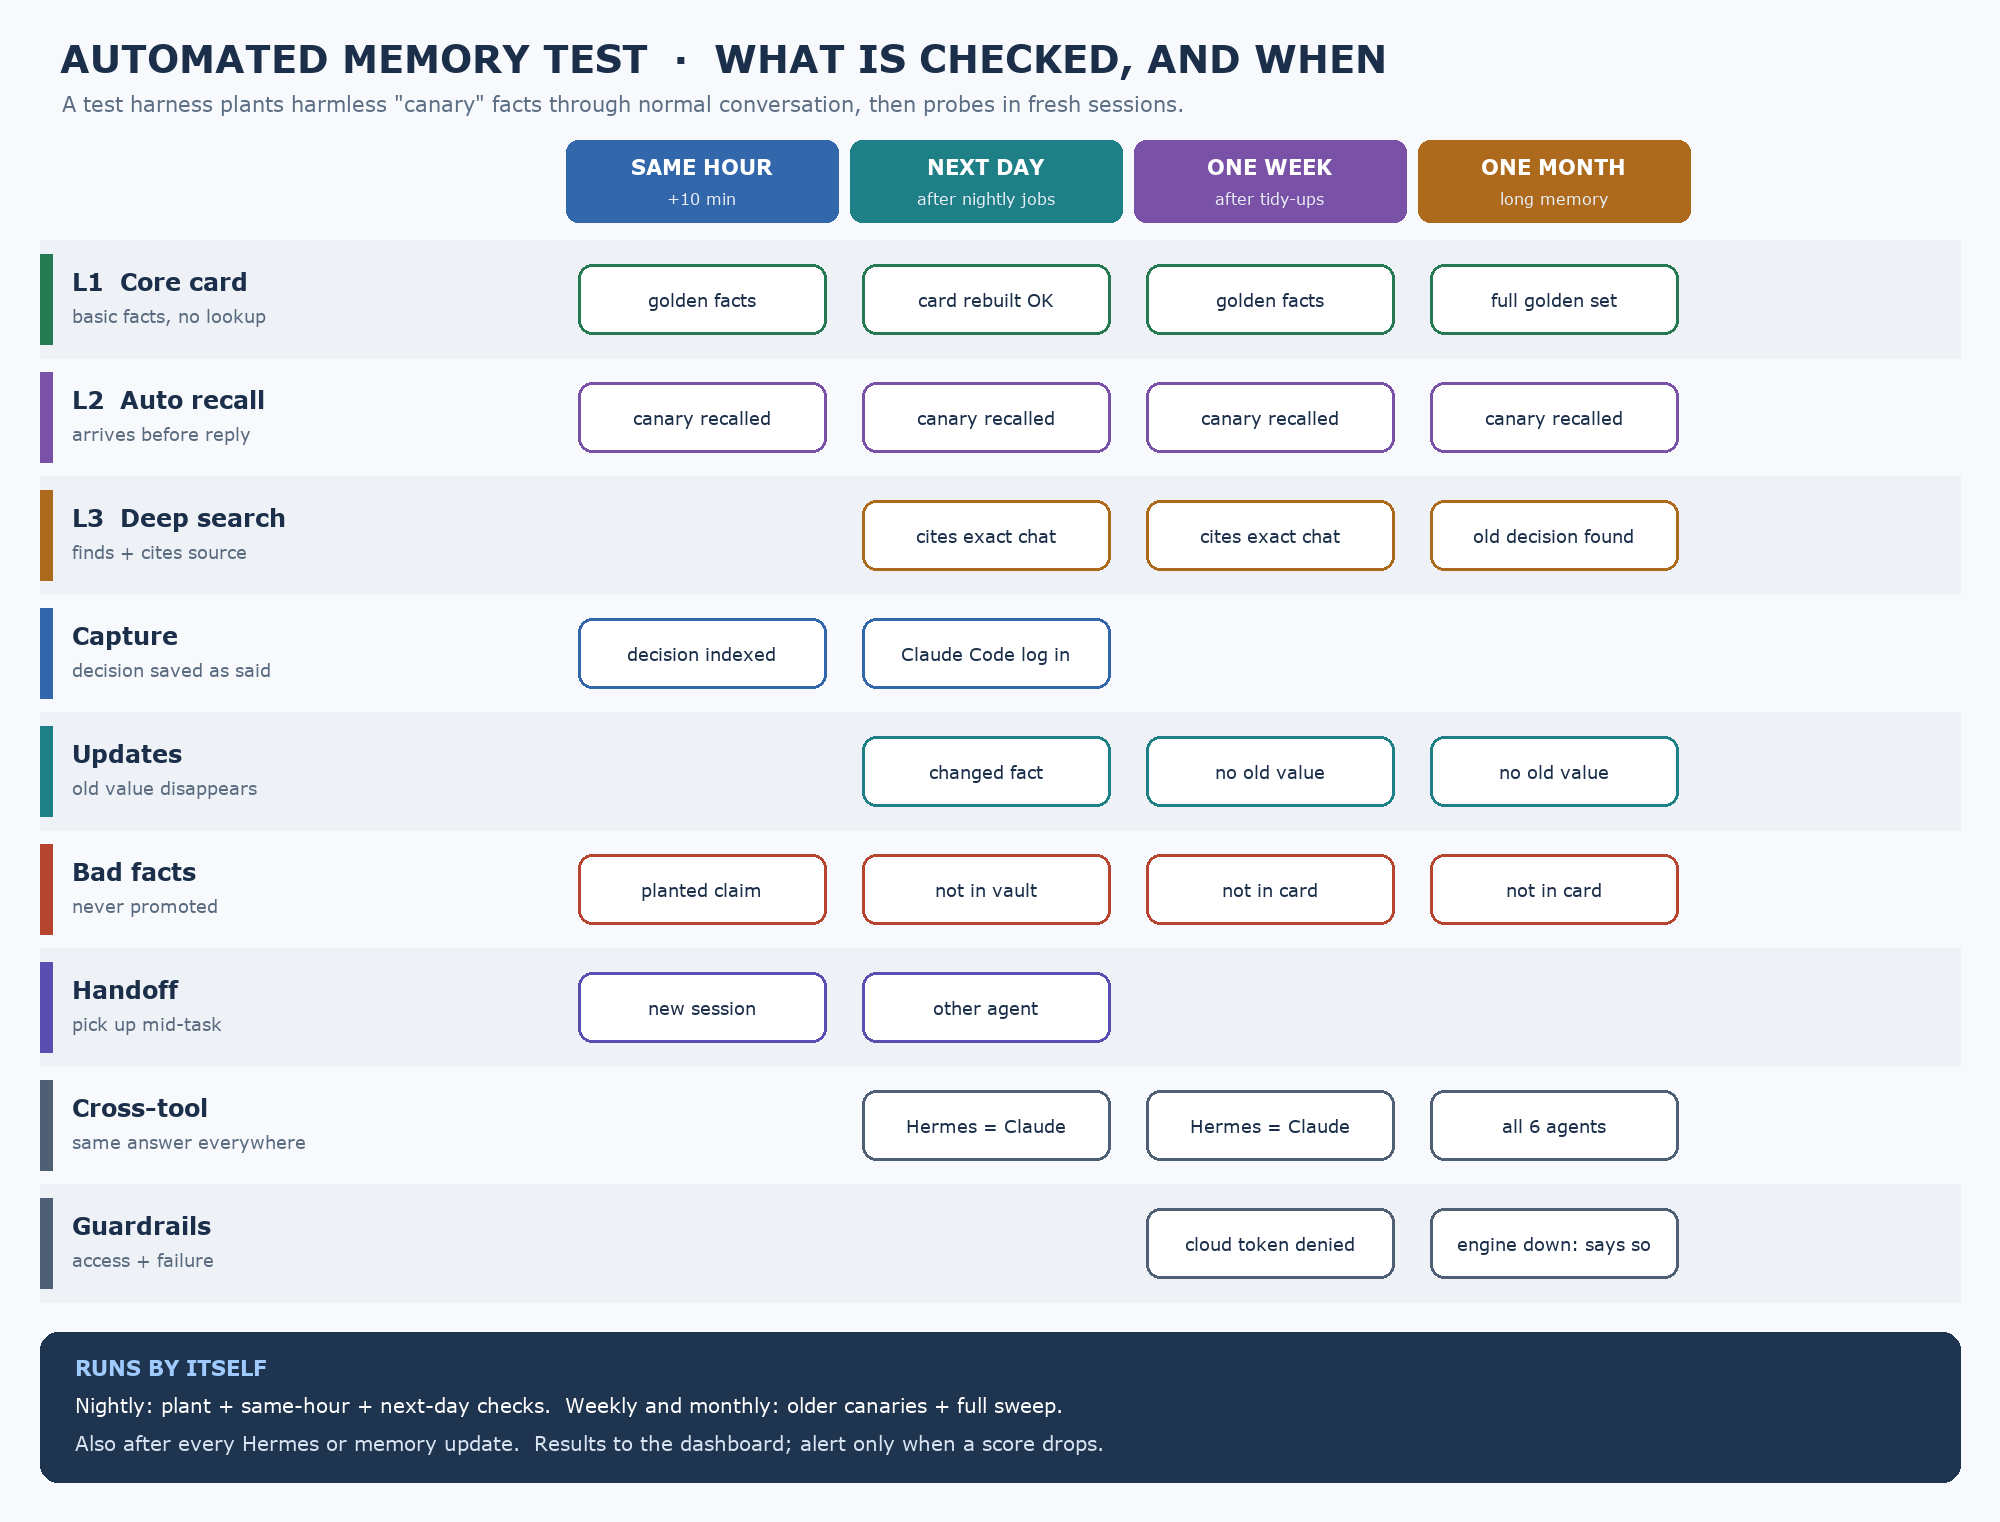
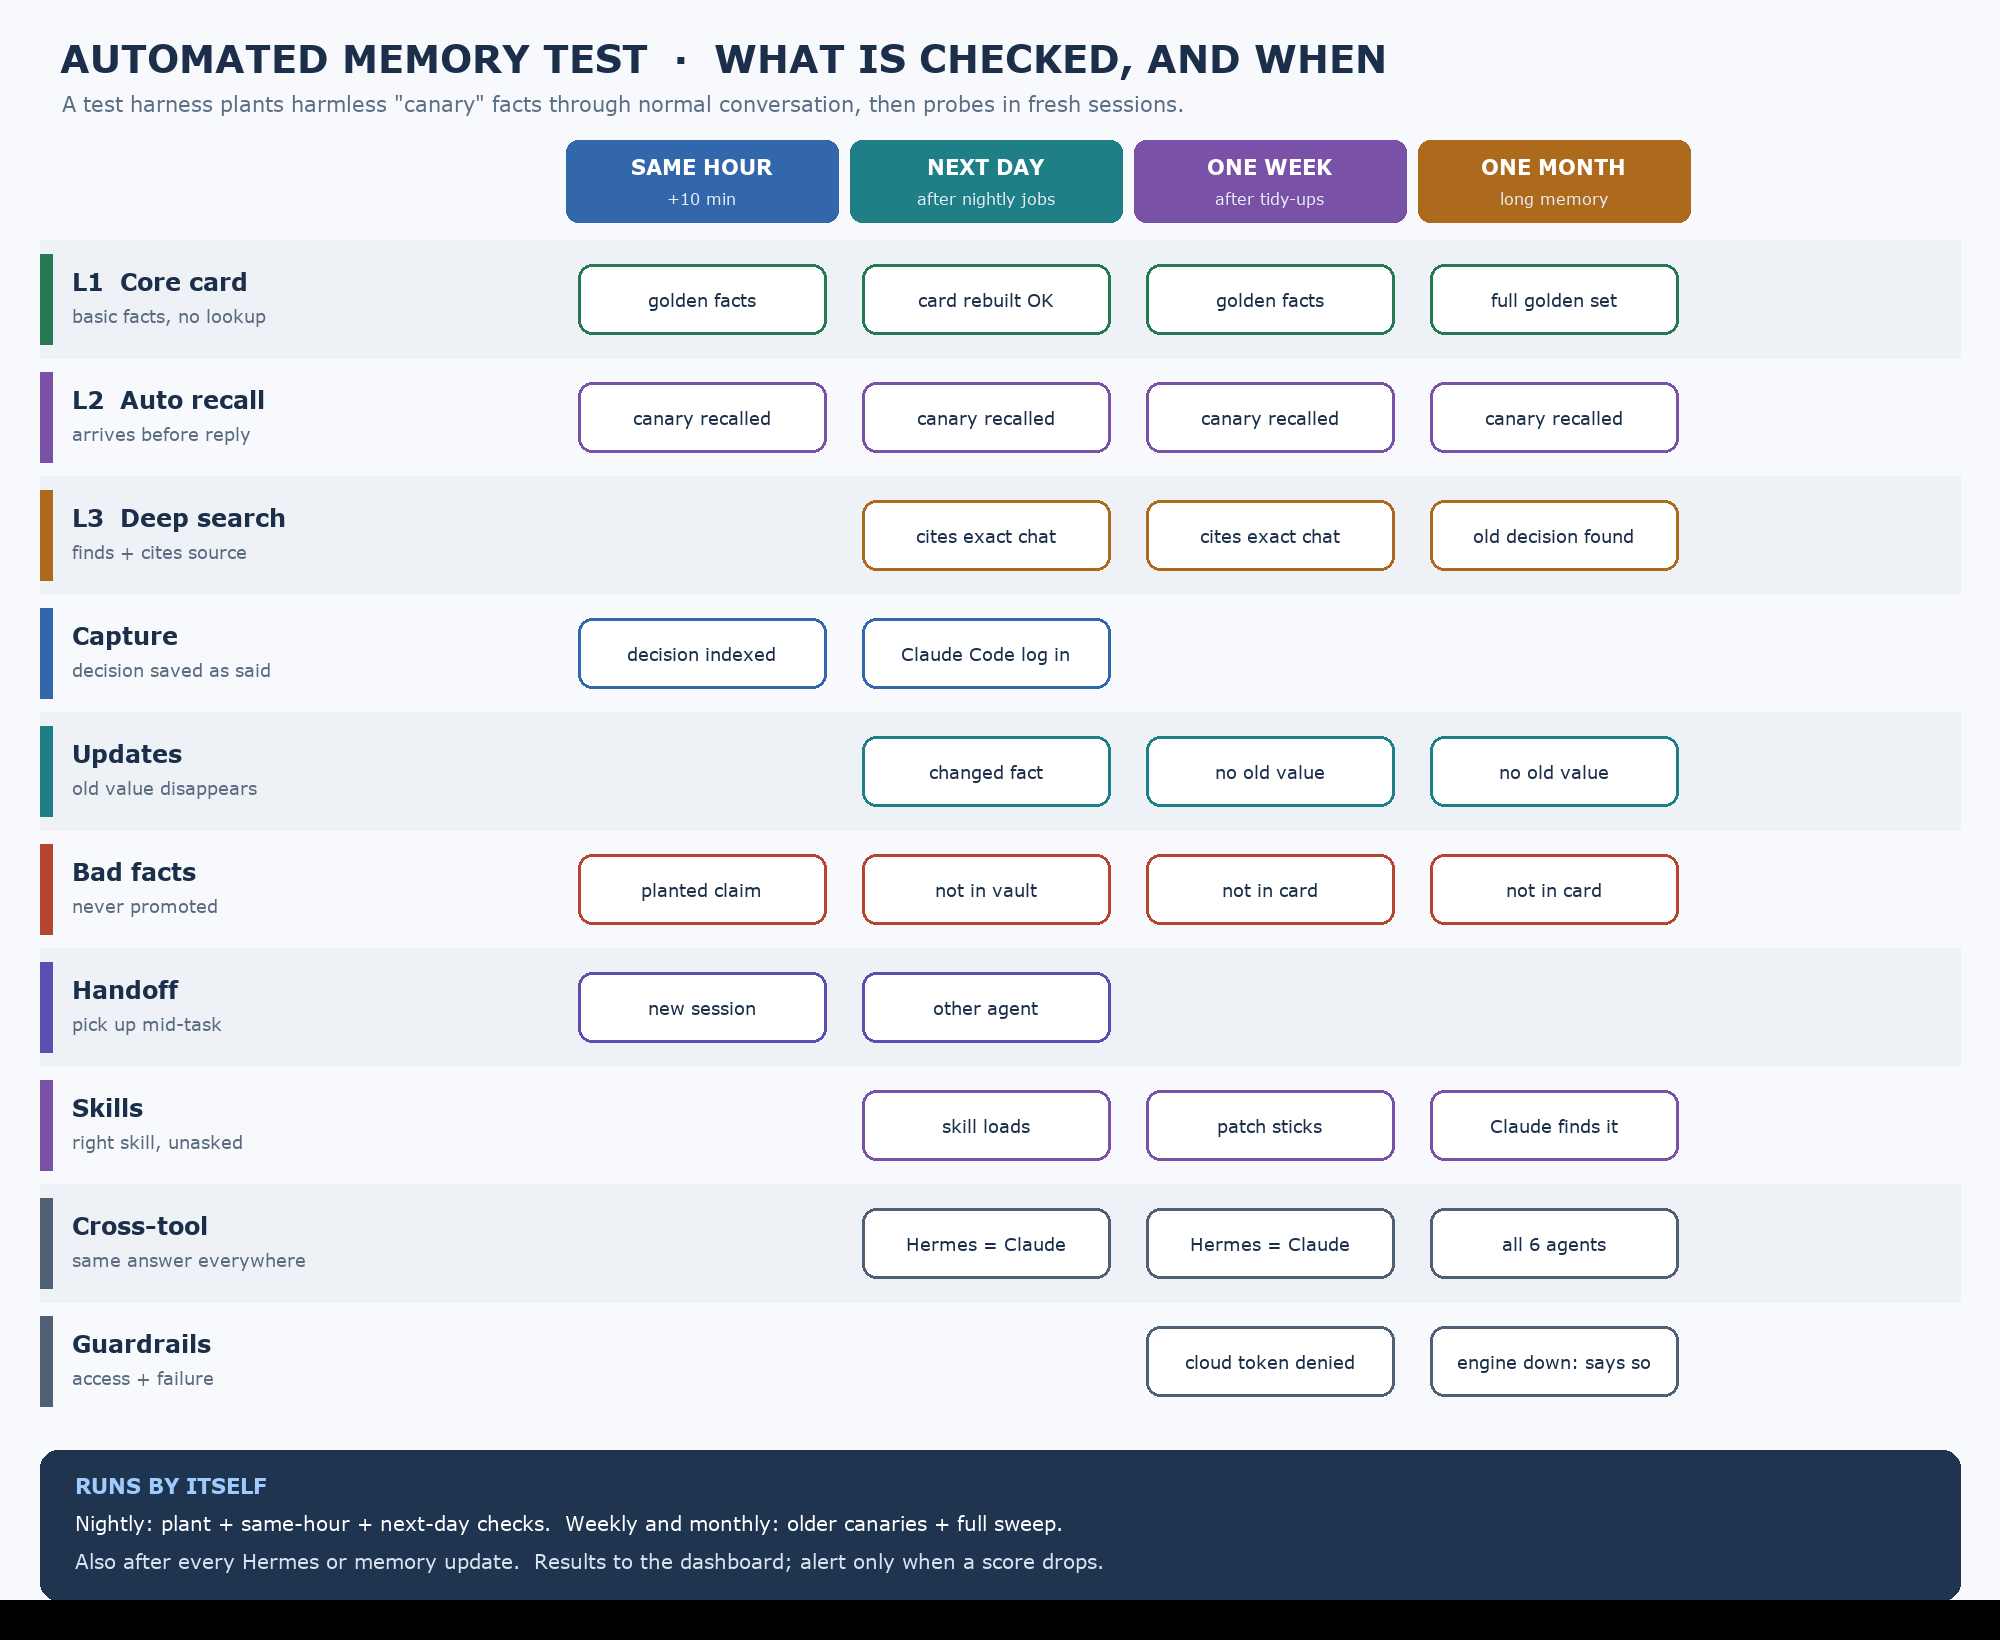
Re-anchor design on the four memory types: master scorecard, per-type mapping, handoff owner, skill tests

diff --git a/diagrams/src/memory-four-types-scorecard.py b/diagrams/src/memory-four-types-scorecard.py
@@ -1,0 +1,65 @@
+from PIL import Image, ImageDraw, ImageFont
+from pathlib import Path
+import sys
+out = Path(sys.argv[1]) if len(sys.argv) > 1 else Path('memory-four-types-scorecard.png')
+x0, cw = 470, 136
+W = x0 + 13 * cw + 50
+H = 1600
+im = Image.new('RGB', (W, H), '#f7f9fc'); d = ImageDraw.Draw(im)
+reg = '/System/Library/Fonts/Supplemental/Verdana.ttf'; bold = '/System/Library/Fonts/Supplemental/Verdana Bold.ttf'
+def F(n, b=False): return ImageFont.truetype(bold if b else reg, n)
+def T(x, y, s, n=24, c='#22344c', b=False, anchor=None): d.text((x, y), s, font=F(n, b), fill=c, anchor=anchor)
+blue = '#3267ab'; green = '#267a53'; orange = '#ad6a1d'; purple = '#7951a6'; grey = '#4f6075'; dark = '#1b2f4a'; red = '#9a3b1d'
+T(40, 30, 'FOUR TYPES OF MEMORY  ·  WHO COVERS WHAT', 40, dark, True)
+T(42, 88, 'Columns = the four memory types (CoALA) split into parts, plus the requirements added later. Rows = tools, then the two designs we are vetting.', 19, '#5d6f85')
+T(42, 116, "Bob's rating from vendor docs, one independent Hermes test and user reports. Option rows are targets, not measurements.", 19, '#5d6f85')
+groups = [('WORKING', blue, 0, 2), ('SEMANTIC', green, 2, 2), ('EPISODIC', orange, 4, 2), ('PROCEDURAL', purple, 6, 1), ('REQUIREMENTS', grey, 7, 6)]
+for name, c, i, n in groups:
+    d.rounded_rectangle((x0 + i*cw + 4, 160, x0 + (i+n)*cw - 4, 204), radius=10, fill=c)
+    T(x0 + i*cw + (n*cw)//2, 182, name, 18 if n > 1 else 13, '#ffffff', True, 'mm')
+cols = [('Live', 'context'), ('Handoff', 'note'), ('Confirmed', 'facts'), ('Inferred', 'facts'), ('Original', 'chats'), ('Distilled', 'decisions'),
+        ('Skills', ''), ('Shows up', 'unasked'), ('Shared by', 'all agents'), ('Other', 'tools'), ('Blocks', 'bad facts'), ('Low', 'upkeep'), ('Outside', 'evidence')]
+for i, (a, b) in enumerate(cols):
+    cx = x0 + i*cw + cw//2; T(cx, 228, a, 17, dark, True, 'mm'); T(cx, 252, b, 17, dark, True, 'mm')
+gc = [blue, blue, green, green, orange, orange, purple] + [grey]*6
+N = None
+rows = [
+ ('Hermes (today)', 'Strong live context; tiny per-agent facts', [3,1,1,1,2,0,3, 1,0,0,2,3,N], '#fbe9e5'),
+ ('Hindsight', 'Best distiller; auto-save can pollute', [1,0,1,3,1,3,0, 3,2,2,1,2,2], None),
+ ('Honcho', 'Best conversation record; heaviest', [2,1,1,3,3,2,0, 3,2,2,1,1,3], '#eef2f7'),
+ ('Mem0', 'Preferences; old facts linger', [1,0,1,2,0,1,0, 3,1,2,1,2,2], None),
+ ('Supermemory', 'Review queue for guesses; cloud MCP', [1,0,2,2,2,1,0, 3,2,3,2,2,1], '#eef2f7'),
+ ('Mnemosyne', 'Fast local working memory; least evidence', [2,1,1,1,1,2,0, 2,1,2,2,2,1], None),
+ ('G-Brain', 'Sourced, correctable, shared; docs only', [1,1,3,2,2,2,2, 2,3,3,2,1,1], '#e8f1fb'),
+ ('Obsidian', 'Human-edited notebook; recalls nothing', [0,1,3,0,1,0,1, 0,1,1,3,2,N], None),
+]
+opts = [
+ ('Option A', 'Obsidian + G-Brain + Hermes', [3,2,3,2,3,2,3, 3,3,3,3,1,1]),
+ ('Option B', 'Option A + Mnemosyne per agent', [3,2,3,2,3,3,3, 3,3,3,2,1,1]),
+]
+def ball(cx, cy, v, c, r=25):
+    d.ellipse((cx-r, cy-r, cx+r, cy+r), fill='#ffffff', outline='#9aa8b8', width=3)
+    if v >= 3: d.ellipse((cx-r, cy-r, cx+r, cy+r), fill=c, outline=c, width=3)
+    elif v > 0: d.pieslice((cx-r, cy-r, cx+r, cy+r), -90, -90 + 120*v, fill=c, outline=c)
+rh = 100
+def row(y, name, note, vals, fill=None, outline=None):
+    if fill: d.rounded_rectangle((20, y, W-20, y+rh-8), radius=16, fill=fill, outline=outline, width=4 if outline else 1)
+    T(40, y+20, name, 24, dark, True); T(40, y+58, note, 15, '#5a6b80')
+    for i, v in enumerate(vals):
+        cx = x0 + i*cw + cw//2; cy = y + (rh-8)//2
+        if v is None: T(cx, cy, 'n/a', 15, '#7b8899', False, 'mm')
+        else: ball(cx, cy, v, gc[i])
+y = 280
+for name, note, vals, fill in rows:
+    row(y, name, note, vals, fill, '#3267ab' if name == 'G-Brain' else None); y += rh
+y += 14
+T(40, y, 'DESIGNS WE ARE VETTING  (targets, not measured yet)', 18, '#9a6a12', True); y += 34
+for name, note, vals in opts:
+    row(y, name, note, vals, '#fff8e6', '#d39a2a'); y += rh + 6
+y += 16
+for i, (v, lab) in enumerate([(0, 'none'), (1, 'limited'), (2, 'good'), (3, 'strong')]):
+    ball(60 + i*170, y+20, v, '#5c6f86', 17); T(88 + i*170, y+8, lab, 18, '#40536a')
+T(780, y+8, 'No single tool fills its row. Hermes today fails "shared" and "shows up unasked", the gap users feel.', 18, red, True)
+y += 50
+T(40, y, 'Why each score: docs/00-four-types-scorecard.md', 17, '#40536a')
+im = im.crop((0, 0, W, y + 50)); im.save(out); print(out, im.size)

diff --git a/diagrams/src/memory-test-timeline.py b/diagrams/src/memory-test-timeline.py
@@ -25,6 +25,7 @@ rows = [
  ('Updates', 'old value disappears', '#1f7f86', ['', 'changed fact', 'no old value', 'no old value']),
  ('Bad facts', 'never promoted', '#b5452f', ['planted claim', 'not in vault', 'not in card', 'not in card']),
  ('Handoff', 'pick up mid-task', '#5a4fb0', ['new session', 'other agent', '', '']),
+ ('Skills', 'right skill, unasked', '#7951a6', ['', 'skill loads', 'patch sticks', 'Claude finds it']),
  ('Cross-tool', 'same answer everywhere', '#4f6075', ['', 'Hermes = Claude', 'Hermes = Claude', 'all 6 agents']),
  ('Guardrails', 'access + failure', '#4f6075', ['', '', 'cloud token denied', 'engine down: says so']),
 ]

diff --git a/docs/00-four-types-scorecard.md b/docs/00-four-types-scorecard.md
@@ -1,0 +1,63 @@
+# 00 · The design, organised by the four types of memory
+
+This is the master view. Every other document supports it.
+
+![Four types scorecard](../diagrams/memory-four-types-scorecard.png)
+
+## The framework
+
+We use the four memory types from the CoALA paper (Cognitive Architectures for Language Agents) and the IBM explainer that introduced it to us. Each type is split into the parts that behave differently:
+
+| Type | Part | What it is |
+|---|---|---|
+| **Working** | Live context | The current conversation |
+| | Handoff note | Where a task was left: status, blockers, next step |
+| **Semantic** | Confirmed facts | Facts a person has confirmed (address, family, standing rules) |
+| | Inferred facts | Facts a system worked out from conversations, unconfirmed |
+| **Episodic** | Original chats | The exact record of what was said |
+| | Distilled decisions | Decisions and events pulled out of chats, with dates |
+| **Procedural** | Skills | How to do things: tested, versioned runbooks |
+
+The later discussion added six **requirements** that cut across all four types: memory **shows up unasked**, is **shared by all agents**, works from **other tools**, **blocks bad facts**, needs **low upkeep**, and has **outside evidence** behind it.
+
+## How the design covers each type
+
+| Part | Lives in | Reaches the agent | Option A | Option B adds | Why (evidence) | Test |
+|---|---|---|---|---|---|---|
+| Live context | Hermes | Always (it is the conversation) | Hermes | Mnemosyne short-term store | Hermes is strong here today | Handoff + time tests |
+| Handoff note | **Toodledo task note** (owner: the agent on the task) | Loaded at session start when a task is active | Hermes + G-Brain index | Mnemosyne scratchpad | No product ships a handoff contract; it must be an owned artifact | Handoff test: new session / other agent continues correctly |
+| Confirmed facts | **Obsidian vault** | **Core card** at every session start; G-Brain recall | Obsidian → core card + G-Brain | same | Every engine tested repeated planted false claims, so facts can't depend on an engine | Golden facts every run, no tool call allowed |
+| Inferred facts | G-Brain (tagged *inferred*) | Recalled, ranked below confirmed | G-Brain | Mnemosyne (tagged *inferred*) | Supermemory/Mnemosyne show labelling + review works; promotion needs a human | Planted bad fact never reaches vault or card |
+| Original chats | Hermes chats, Claude Code / Codex logs | Deep search on demand, cited | G-Brain index | same | LongMemEval: keep the original; answer from the source | Deep search cites the exact chat |
+| Distilled decisions | G-Brain, linked to the original chat | **Recalled automatically before each reply** | G-Brain pre-reply | Mnemosyne pre-reply (faster, per agent) | LongMemEval: extract-as-you-go + dates improved recall ~9% and time questions ~7–11% | Canary probes at 10 min / day / week / month |
+| Skills | Hermes skills (git) | Skill index loaded every session; full skill on use | Hermes (+ G-Brain shares to other tools) | same | No memory product does procedural memory well | **Skill test** (below) |
+
+## What changed from the earlier scorecard
+
+- **Two new tools:** G-Brain and Obsidian.
+- **Rows for the two designs** replace the single "recommended combo" row.
+- **Requirements re-weighted:** "shows up unasked" and "shared by all agents" are now columns. The earlier version had no such columns, which is why Hermes looked best-in-class.
+- **Hermes "distilled decisions" lowered to none.** Hermes keeps chats but distils nothing from them.
+
+## Two gaps the four-type view exposed, now closed
+
+1. **Handoff note had no owner.** Now it's the Toodledo task note, owned by the agent working the task, loaded when a task is active, and indexed by G-Brain for other tools.
+2. **Skills were untested.** New automated skill test:
+   - For each of about 10 common requests (for example "check the boat battery"), the harness starts a fresh session and checks that the agent **loads the right skill without being told to**.
+   - After a skill is patched, a canary instruction added to it must appear in the agent's behaviour the next day.
+   - Through G-Brain, Claude Code must find the same skill.
+
+## Where the scores come from
+
+| Row | Main sources |
+|---|---|
+| Hermes | Hermes memory, sessions and provider docs; live audit of our six agents (per-agent notes over their limits, no shared store) |
+| Hindsight | Vendor docs (retain, observations, MCP); independent Hermes study; Reddit report of auto-save pollution |
+| Honcho | Vendor architecture docs; independent study (highest on complex histories); self-host user reports |
+| Mem0 | v3 OSS migration notes (add-only, old facts linger); independent study (best on conditional preferences) |
+| Supermemory | Memory-review docs (inferred-fact queue); self-hosting docs (MCP is cloud-only) |
+| Mnemosyne | Repo docs (working memory TTL, veracity labels, `sleep()` manual); own benchmark table (~20% Recall@10); user report |
+| G-Brain | Repo README only (sources, corrections, sharing, Claude Code/Codex/Grok/Muse guides, Tailscale). **Untested by us** |
+| Obsidian | Plain Markdown, human-edited; one Reddit setup using it as G-Brain's source of truth |
+
+All sources are linked in [../research/sources.md](../research/sources.md). Ratings are judgement calls, not measurements. The test method in [07-test-methodology.md](07-test-methodology.md) is how we replace them with numbers.

diff --git a/README.md b/README.md
@@ -20,6 +20,12 @@ We run six Hermes agents (chief of staff, engineering, travel, health, boat, fin
 4. **Low upkeep.** About 5 minutes a week from the human.
 5. **Portable.** Facts, skills and history stay in files we own, so the memory engine can be swapped.
 
+## The four types of memory (start here)
+
+![Four types scorecard](diagrams/memory-four-types-scorecard.png)
+
+The design is organised around the four standard memory types (working, semantic, episodic, procedural), each split into the parts that behave differently, and scored against our requirements. Full mapping, evidence and tests for each type: [docs/00-four-types-scorecard.md](docs/00-four-types-scorecard.md).
+
 ## Proposed design, in short
 
 ![Three levels of recall](diagrams/memory-recall-levels.png)
@@ -35,10 +41,9 @@ We are vetting **two options for level 2:**
 
 Both are judged by the same **automated test suite**. It plants made-up "canary" facts and probes every level 10 minutes, a day, a week and a month later. It also tracks how often agents ask about things they should already know.
 
-![Config layers](diagrams/memory-config-layers.png)
-
 ## Reading order
 
+0. [docs/00-four-types-scorecard.md](docs/00-four-types-scorecard.md): **master view**, the design by memory type, with evidence and tests
 1. [docs/01-design.md](docs/01-design.md): the recommended design, config layers and trust rules
 2. [docs/02-options-to-vet.md](docs/02-options-to-vet.md): Option A vs Option B, and how we'll decide
 3. [docs/03-research-findings.md](docs/03-research-findings.md): what the research says, including what we got wrong at first
@@ -49,13 +54,11 @@ Both are judged by the same **automated test suite**. It plants made-up "canary"
 8. [research/evidence-brief-2026-10-13.md](research/evidence-brief-2026-10-13.md): the detailed, source-linked research brief
 9. [research/sources.md](research/sources.md): every source, grouped by type and confidence
 
-![Automated test timeline](diagrams/memory-test-timeline.png)
+## Supporting views
 
-## Scorecard
-
-![Outcome scorecard](diagrams/memory-scorecard-v2.png)
-
-Rated on **results** (does the right memory show up, is it right, what does it cost), not on feature lists. These are judgement ratings from product docs, one independent test and user reports. They are not measurements of our own setup.
+- [Outcome scorecard](diagrams/memory-scorecard-v2.png): earlier outcome-only view, superseded by the four-type scorecard above
+- [Config layers](diagrams/memory-config-layers.png)
+- [Test timeline](diagrams/memory-test-timeline.png)
 
 ## How the thinking changed
 

diff --git a/docs/07-test-methodology.md b/docs/07-test-methodology.md
@@ -45,6 +45,7 @@ Canary answers are graded by **exact match on the unique marker**, with no AI ju
 | **Distractors** | Two similar canaries (blue tin / red tin); the right one is returned | Every run |
 | **Cross-tool** | Hermes and Claude Code give the same answer from the same memory | Day → month |
 | **Access** | A cloud-app token cannot read a private fact | Weekly |
+| **Skills** | Right skill loads unprompted for common requests; a patched skill changes behaviour next day; Claude Code finds the same skill | Day, week |
 | **Failure** | Memory engine stopped: the agent says it can't verify rather than guessing | Monthly |
 
 These map onto the five LongMemEval ability types: extraction, multi-session reasoning, time reasoning, knowledge updates and abstention. Results stay comparable with published work.

diff --git a/diagrams/README.md b/diagrams/README.md
@@ -1,6 +1,7 @@
 # Diagrams
 
 Current:
+- `memory-four-types-scorecard.png`: **master view**, the four memory types by tool and design option
 - `memory-recall-levels.png`: three levels of recall and the two options to vet
 - `memory-config-layers.png`: config layers and recommendations
 - `memory-scorecard-v2.png`: outcome-based scorecard
